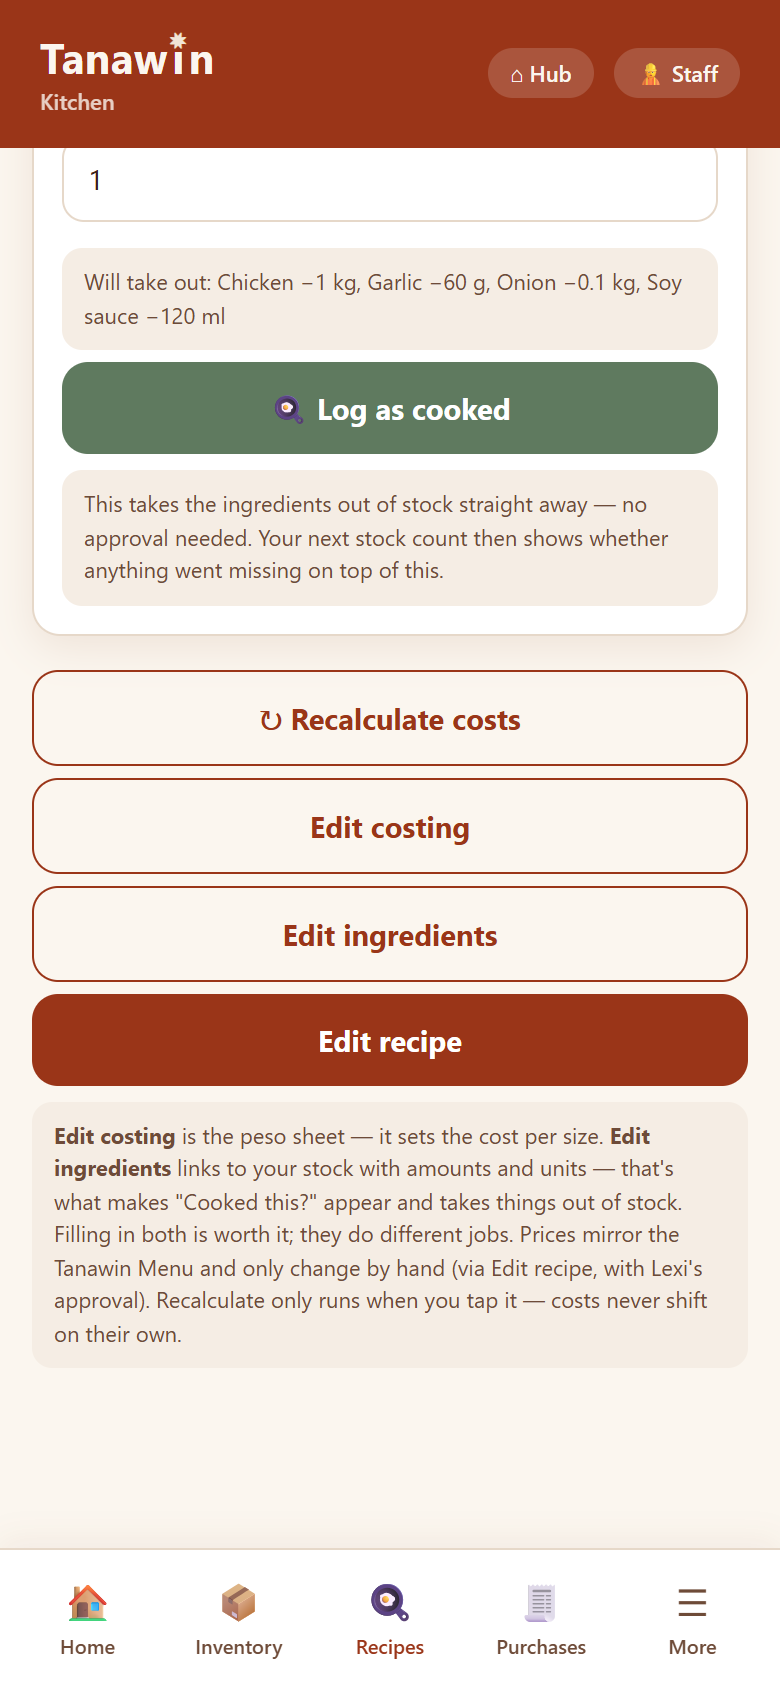
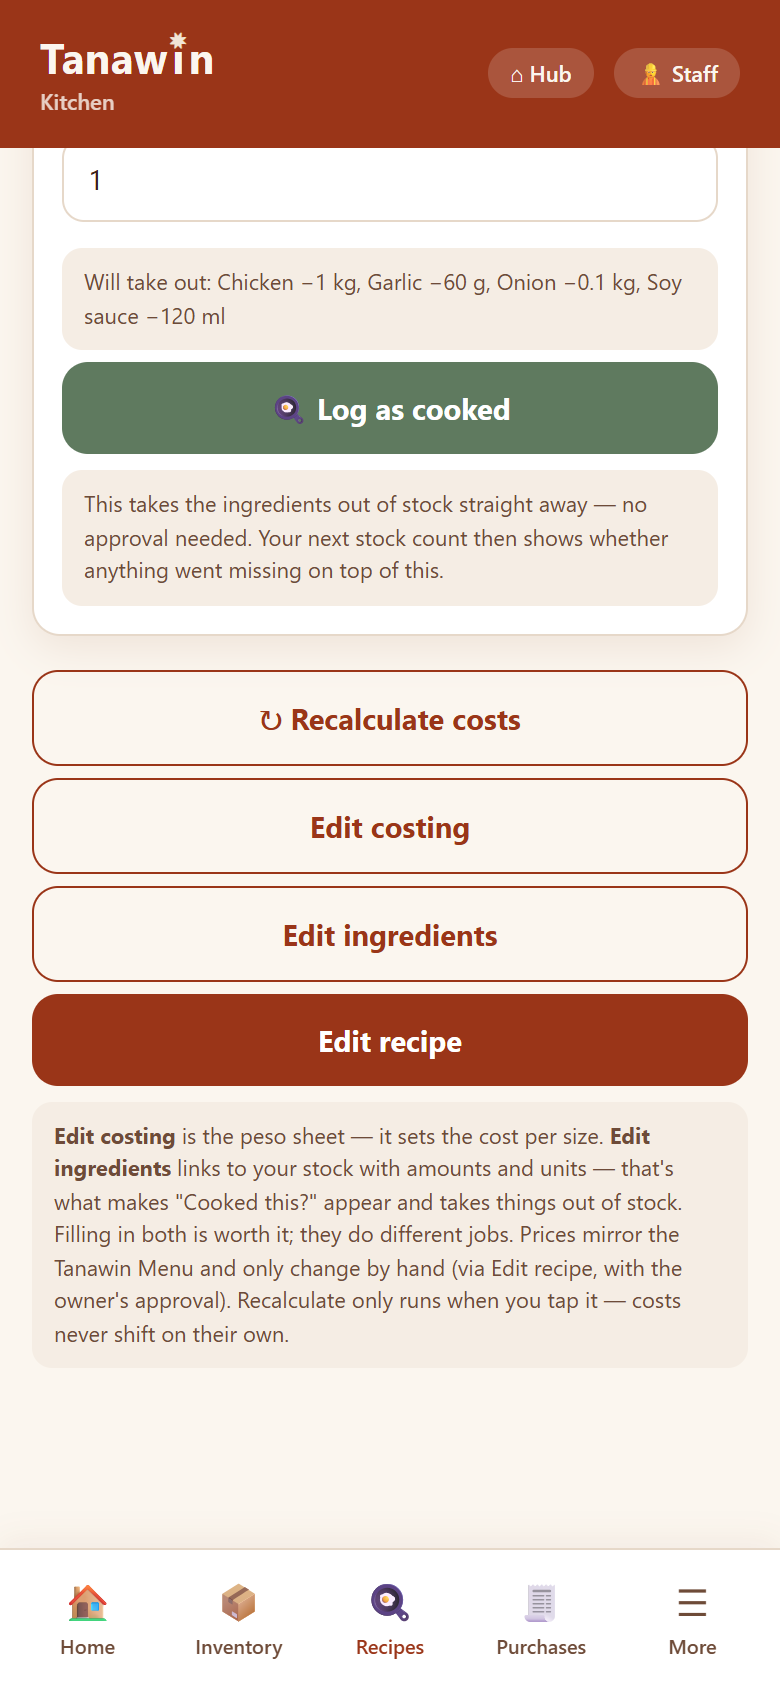
Genericise owner's name in UI copy; refresh screenshots
Replace the hard-coded owner first name with the generic "the owner" /
"owner's" across every user-facing string — approval notices, the PIN-reset
hint, the Finance-import confirmation, and the recipe/costing/ingredients
submit copy (14 occurrences in 9 files). Code comments, SQL seeds and the
personal avatar art (keyed to real usernames, never shown with demo data)
are deliberately left as-is.

Refresh docs/screenshots with today's demo-mode shots (dummy data), add the
new waste-logging screen (08), and list it in the README.

diff --git a/src/screens/RecipeCostingEdit.jsx b/src/screens/RecipeCostingEdit.jsx
@@ -96,7 +96,7 @@ export default function RecipeCostingEdit() {
         setDone('Saved — costing updated. Tap Recalculate on the recipe to commit the new tier costs.')
       } else {
         await submitCostingEdit(recipe, parsed, before, summary, currentUser.id)
-        setDone('Sent to Lexi for approval ⏳')
+        setDone('Sent to the owner for approval ⏳')
       }
     } catch (err) {
       setError(err.message || 'Could not save. Try again.')
@@ -138,7 +138,7 @@ export default function RecipeCostingEdit() {
       <h2 className="title">Edit costing</h2>
       <div className="muted">
         How much to use and what it costs, per size — gas and overheads count too.{' '}
-        {role === 'admin' ? 'Changes apply immediately.' : 'Changes go to Lexi for approval.'}
+        {role === 'admin' ? 'Changes apply immediately.' : 'Changes go to the owner for approval.'}
       </div>
 
       {error ? <div className="error" style={{ marginTop: 12 }}>{error}</div> : null}

diff --git a/src/screens/RecipeIngredientsEdit.jsx b/src/screens/RecipeIngredientsEdit.jsx
@@ -121,7 +121,7 @@ export default function RecipeIngredientsEdit() {
         setDone('Saved — ingredients updated. Tap Recalculate on the recipe to commit the new cost.')
       } else {
         await submitIngredientsEdit(recipe, after, before, summary, currentUser.id)
-        setDone('Sent to Lexi for approval ⏳')
+        setDone('Sent to the owner for approval ⏳')
       }
     } catch (err) {
       setError(err.message || 'Could not save. Try again.')
@@ -163,7 +163,7 @@ export default function RecipeIngredientsEdit() {
       <h2 className="title">Edit ingredients</h2>
       <div className="muted">
         Fixed batch: {recipe.pax_tier} pax ·{' '}
-        {role === 'admin' ? 'changes apply immediately' : 'changes go to Lexi for approval'}
+        {role === 'admin' ? 'changes apply immediately' : 'changes go to the owner for approval'}
       </div>
 
       {error ? <div className="error" style={{ marginTop: 12 }}>{error}</div> : null}

diff --git a/src/screens/RecipeDetail.jsx b/src/screens/RecipeDetail.jsx
@@ -263,7 +263,7 @@ export default function RecipeDetail() {
         </>
       ) : (
         <div className="placeholder">
-          No costing yet — add Lexi-style peso lines via "Edit costing", or ingredient quantities
+          No costing yet — add peso cost lines via "Edit costing", or ingredient quantities
           via "Edit ingredients".
         </div>
       )}
@@ -424,7 +424,7 @@ export default function RecipeDetail() {
             "Cooked this?" appear and takes things out of stock. Filling in both is worth it; they
             do different jobs. Prices mirror the Tanawin Menu and only change by hand (via Edit
             recipe
-            {role === 'admin' ? '' : ", with Lexi's approval"}). Recalculate only runs when you tap
+            {role === 'admin' ? '' : ", with the owner's approval"}). Recalculate only runs when you tap
             it — costs never shift on their own.
           </div>
 

diff --git a/src/screens/RecipeEdit.jsx b/src/screens/RecipeEdit.jsx
@@ -99,7 +99,7 @@ export default function RecipeEdit() {
         setDone('Saved — changes applied.')
       } else {
         await submitRecipeEdit(recipe, changes, before, summary, currentUser.id)
-        setDone('Sent to Lexi for approval ⏳')
+        setDone('Sent to the owner for approval ⏳')
       }
     } catch (err) {
       setError(err.message || 'Could not save. Try again.')
@@ -142,7 +142,7 @@ export default function RecipeEdit() {
       <div className="muted">
         {role === 'admin'
           ? 'Your changes apply immediately.'
-          : 'Changes are sent to Lexi for approval before they take effect.'}
+          : 'Changes are sent to the owner for approval before they take effect.'}
       </div>
 
       {error ? <div className="error" style={{ marginTop: 12 }}>{error}</div> : null}

diff --git a/src/screens/Purchases.jsx b/src/screens/Purchases.jsx
@@ -128,7 +128,7 @@ export default function Purchases() {
         await loadRecent()
       } else {
         await submitPurchase(purchase, summary, currentUser.id)
-        setSuccess('Sent to Lexi for approval ⏳')
+        setSuccess('Sent to the owner for approval ⏳')
       }
       setQuantity('')
       setTotalCost('')
@@ -275,7 +275,7 @@ export default function Purchases() {
               <div className="note">
                 {direct
                   ? 'Recording a purchase updates stock and the cost record immediately.'
-                  : 'Restock entries affect cost records, so they route to Lexi for approval.'}
+                  : 'Restock entries affect cost records, so they route to the owner for approval.'}
               </div>
             </form>
           )}

diff --git a/src/components/FinanceImport.jsx b/src/components/FinanceImport.jsx
@@ -139,7 +139,7 @@ export default function FinanceImport({ ingredients, direct, currentUser, onChan
       setMsg(
         direct
           ? `Imported ${entry.item} as ${ing.name} — remembered for next time.`
-          : `Sent ${entry.item} (${ing.name}) to Lexi for approval — match remembered.`
+          : `Sent ${entry.item} (${ing.name}) to the owner for approval — match remembered.`
       )
       onChange?.()
     } catch (err) {

diff --git a/src/screens/CountStock.jsx b/src/screens/CountStock.jsx
@@ -158,7 +158,7 @@ export default function CountStock() {
             {saving ? 'Saving…' : 'Save count'}
           </button>
           <div className="note">
-            This is logged with your name and time, but doesn't need Lexi's approval.
+            This is logged with your name and time, but doesn't need the owner's approval.
           </div>
         </form>
       ) : null}

diff --git a/src/screens/Approvals.jsx b/src/screens/Approvals.jsx
@@ -93,7 +93,7 @@ export default function Approvals() {
                       </button>
                     </div>
                   ) : (
-                    <div className="note">Only Lexi can approve or reject.</div>
+                    <div className="note">Only the owner can approve or reject.</div>
                   )}
                 </div>
               ))}

diff --git a/src/screens/Login.jsx b/src/screens/Login.jsx
@@ -202,7 +202,7 @@ export default function Login() {
                 </button>
               ) : (
                 <div className="note" style={{ textAlign: 'center' }}>
-                  Forgot your PIN? Ask Lexi to reset it.
+                  Forgot your PIN? Ask the owner to reset it.
                 </div>
               )}
             </>

diff --git a/README.md b/README.md
@@ -68,6 +68,6 @@ captured against an in-memory demo build (`VITE_DEMO=1`), never the real data.
     <td align="center" width="25%"><img src="docs/screenshots/05-approvals-admin.png" width="200"><br>Owner approval queue</td>
     <td align="center" width="25%"><img src="docs/screenshots/06-stock-chart.png" width="200"><br>Per-item stock history chart</td>
     <td align="center" width="25%"><img src="docs/screenshots/07-recipe-staff.png" width="200"><br>Staff view: log a cooked dish, edits need approval</td>
-    <td align="center" width="25%"></td>
+    <td align="center" width="25%"><img src="docs/screenshots/08-waste-other.png" width="200"><br>Waste &amp; spoilage log, with a free-text reason</td>
   </tr>
 </table>
